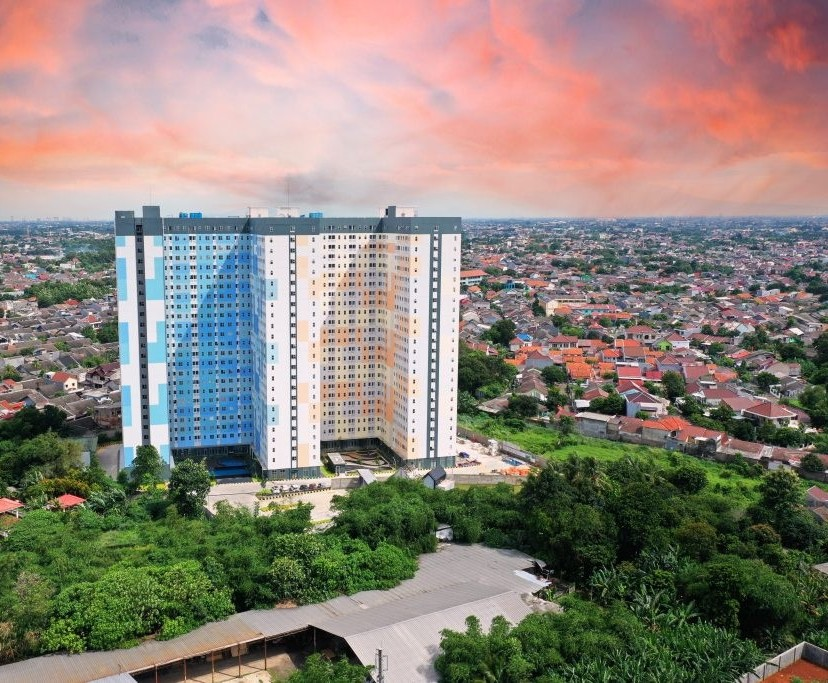
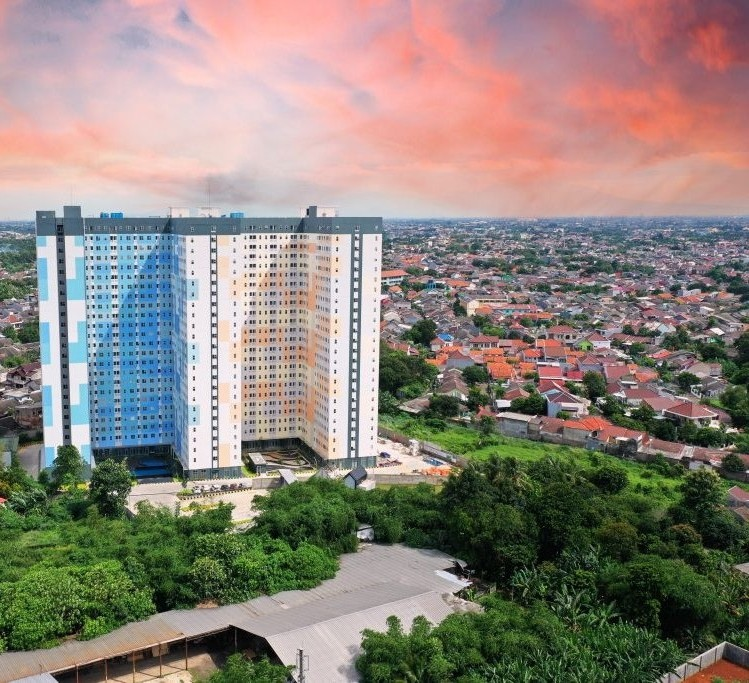
perbaiki ui dikit

diff --git a/resources/views/auth/login.blade.php b/resources/views/auth/login.blade.php
@@ -23,7 +23,7 @@
 <body
     class="min-h-screen
     bg-cover bg-center bg-no-repeat
-    flex items-center justify-center lg:justify-end
+    flex items-center justify-center
     relative overflow-hidden"
     style="background-image: url('{{ asset('images/gedung.jpg') }}');">
 
@@ -46,19 +46,39 @@
 
         <div
             class="flex flex-col justify-end
+            h-full
             p-14 text-white">
 
-            {{-- SMALL BADGE --}}
-            <div
-                class="mt-8 inline-flex items-center
-                gap-2 text-sm text-white/80">
+            <div>
 
+                {{-- TITLE --}}
+                <h1
+                    class="text-5xl font-black
+                    tracking-tight leading-tight">
+
+                    Urban Town
+                    <br>
+                    Serpong
+
+                </h1>
+
+                {{-- LINE --}}
                 <div
-                    class="w-2 h-2 rounded-full
-                    bg-emerald-400 animate-pulse">
+                    class="w-24 h-1 rounded-full
+                    bg-blue-400 mt-6">
                 </div>
 
-                Urbantown Complaint Management System
+                {{-- ADDRESS --}}
+                <p
+                    class="mt-6 text-base
+                    text-white/75 leading-relaxed
+                    max-w-md">
+
+                    Jl. Raya Bukit Sarua, Ciputat, 
+                    Tangerang Selatan,
+                    Banten 15414
+
+                </p>
 
             </div>
 
@@ -71,7 +91,7 @@
         x-data="{ showPassword: false }"
         class="relative z-20
         w-full max-w-md
-        mr-0 lg:mr-32
+        lg:ml-[40%]
         mx-4
         bg-white/85 backdrop-blur-xl
         rounded-3xl shadow-2xl

diff --git a/resources/views/penghuni/riwayatKeluhan.blade.php b/resources/views/penghuni/riwayatKeluhan.blade.php
@@ -190,7 +190,51 @@
 
                 <!-- PDF -->
                 <template x-if="previewFile.match(/\.pdf$/i)">
-                    <iframe :src="previewFile" class="w-full h-[70vh]"></iframe>
+
+                    <div
+                        class="flex items-center justify-between
+                        bg-gray-50 border border-gray-200
+                        rounded-xl px-4 py-4">
+
+                        <div class="flex items-center gap-3">
+
+                            <div
+                                class="w-12 h-12 rounded-lg
+                                bg-red-100 text-red-600
+                                flex items-center justify-center">
+
+                                📄
+
+                            </div>
+
+                            <div>
+
+                                <p class="font-medium text-gray-800">
+                                    File PDF
+                                </p>
+
+                                <p
+                                    class="text-sm text-gray-500"
+                                    x-text="previewFile.split('/').pop()">
+                                </p>
+
+                            </div>
+
+                        </div>
+
+                        <a
+                            :href="previewFile"
+                            target="_blank"
+                            class="px-4 py-2
+                            bg-blue-600 text-white
+                            rounded-lg hover:bg-blue-700">
+
+                            Buka PDF
+
+                        </a>
+
+                    </div>
+
                 </template>
 
                 <!-- FILE LAIN -->

diff --git a/resources/views/departemen/workOrder/workOrderMasuk.blade.php b/resources/views/departemen/workOrder/workOrderMasuk.blade.php
@@ -82,7 +82,7 @@
     {{-- MODAL DETAIL WO --}}
     <div x-show="showModal" x-cloak
          class="fixed inset-0 bg-black/50 flex items-center justify-center z-50 p-4">
-        <div @click.outside="showModal = false"
+        <div @click.outside="if(!openPreview) showModal = false"
              class="bg-white w-full sm:max-w-md md:max-w-2xl rounded-lg shadow-lg max-h-[90vh] flex flex-col">
 
             {{-- Header --}}
@@ -295,15 +295,26 @@
             </div>
 
         </div>
+    </div>
 
-            <!-- ================= MODAL PREVIEW FILE ================= -->
-        <div x-show="openPreview" x-cloak
-            class="fixed inset-0 bg-black/70 flex items-center justify-center z-50">
+    <!-- ================= MODAL PREVIEW FILE ================= -->
+    <div
+        x-show="openPreview"
+        x-cloak
+        @click.self="openPreview = false"
+        class="fixed inset-0 bg-black/70
+        flex items-center justify-center
+        z-[9999]">
+            <div
+             @click.stop
+             class="bg-white rounded-lg p-4 max-w-4xl w-full relative">
 
-            <div class="bg-white rounded-lg p-4 max-w-4xl w-full relative">
-
-                <button @click="openPreview=false"
-                    class="absolute top-2 right-2 text-xl">✕</button>
+            <button
+                @click.stop="openPreview = false"
+                type="button"
+                class="absolute top-2 right-2 text-xl">
+                ✕
+            </button>
 
                 <div class="mt-6">
 
@@ -373,7 +384,6 @@
                 </div>
             </div>
         </div>
-    </div>
 
 <script>
 function workOrderApp(){

diff --git a/resources/views/departemen/workOrder/detailWorkOrder.blade.php b/resources/views/departemen/workOrder/detailWorkOrder.blade.php
@@ -34,7 +34,7 @@
     </template>
 
     {{-- ================= INFO UTAMA WO ================= --}}
-    <div class="grid grid-cols-2 gap-4 text-sm bg-white p-6 rounded-xl shadow">
+    <div class="grid grid-cols-2 md:grid-cols-3 gap-4 text-sm bg-white p-6 rounded-xl shadow">
         <p><b>Departemen</b><br><span x-text="wo.departemen?.nama_departemen"></span></p>
         <p><b>TR Penanggung Jawab</b><br><span x-text="wo.tr"></span></p>
         <p><b>Tanggal WO</b><br><span x-text="wo.tanggal"></span></p>
@@ -44,6 +44,10 @@
                 x-text="formatStatus(wo.status)">
             </span>
         </p>
+    <p>
+        <b>No. Tiket Keluhan</b><br>
+        <span x-text="wo.nomor_tiket_keluhan"></span>
+    </p>
     </div>
 
     {{-- ================= PENGAJUAN PENGHUNI ================= --}}

diff --git a/app/Http/Controllers/tempCodeRunnerFile.php b/app/Http/Controllers/tempCodeRunnerFile.php
@@ -1,0 +1,26 @@
+<?php
+public function ambilWO($id)
+    {
+        $user = auth()->user();
+
+        $wo = WorkOrder::findOrFail($id);
+
+        $wo->update([
+            'penanggung_jawab_id' => $user->karyawan->id,
+            'status' => 'open',
+            'taken_at' => now()
+        ]);
+
+        RiwayatPenangananWorkOrder::create([
+            'work_order_id' => $wo->id,
+            'judul' => 'Work Order Diambil Alih',
+            'deskripsi' =>'Work Order telah diambil dan mulai diproses oleh departemen',
+            'status' => 'open',
+            'waktu' => now(),
+            'lampiran' => []
+        ]);
+
+        return response()->json([
+            'message' => 'WO berhasil diambil'
+        ]);
+    }

diff --git a/database/migrations/2026_03_24_165140_create_unit_table.php b/database/migrations/2026_03_24_165140_create_unit_table.php
@@ -11,7 +11,7 @@ return new class extends Migration
         Schema::create('units', function (Blueprint $table) {
             $table->id();
             $table->string('nomor_unit', 10)->unique();
-            $table->string('gedung', 50);
+            $table->string('gedung', 10);
             $table->string('lantai');
             $table->string('nomor_kamar');
             $table->enum('status', ['Aktif', 'Nonaktif'])->default('Aktif');

diff --git a/database/migrations/2026_03_24_165141_create_penghuni_table.php b/database/migrations/2026_03_24_165141_create_penghuni_table.php
@@ -11,7 +11,7 @@ return new class extends Migration
         Schema::create('penghunis', function (Blueprint $table) {
             $table->id();
             $table->string('nik', 16);
-            $table->string('nama', 50);
+            $table->string('nama', 100);
             $table->string('email', 100);
             $table->string('no_telepon', 15);
             $table->enum('jenis_kelamin', ['Laki-laki', 'Perempuan']);

diff --git a/resources/views/admin/dashboard.blade.php b/resources/views/admin/dashboard.blade.php
@@ -40,7 +40,7 @@
 
         {{-- TOTAL UNIT --}}
         <a href="/IndexUnits?status=Aktif" class="block bg-white p-6 rounded-lg border shadow-sm hover:shadow-md transition">
-            <p class="text-sm text-gray-500">Total Unit</p>
+            <p class="text-sm text-gray-500">Total Unit Aktif</p>
             <p class="text-3xl font-bold text-blue-600 mt-2">
                 {{ $stats['unit'] }}
             </p>

diff --git a/app/Http/Controllers/WorkOrderController.php b/app/Http/Controllers/WorkOrderController.php
@@ -367,7 +367,9 @@ class WorkOrderController extends Controller
 
             'lokasi' =>
                 $wo->lokasi,
-
+            
+            'nomor_tiket_keluhan' =>
+                 $wo->keluhan->nomor_tiket ?? '-',
             // ================= PENGAJUAN =================
 
             'judul_keluhan' =>

diff --git a/database/migrations/2026_03_24_165139_create_departemen_table.php b/database/migrations/2026_03_24_165139_create_departemen_table.php
@@ -10,7 +10,7 @@ return new class extends Migration
     {
         Schema::create('departemens', function (Blueprint $table) {
             $table->id();
-            $table->string('nama_departemen');
+            $table->string('nama_departemen',20);
             $table->timestamps();
         });
     }

diff --git a/resources/views/tenantrelation/keluhan/keluhanMasuk.blade.php b/resources/views/tenantrelation/keluhan/keluhanMasuk.blade.php
@@ -444,6 +444,7 @@
                     </div>
 
                 </template>
+                
                 {{-- FILE LAIN --}}
                 <template x-if="!isImage(previewUrl) && !isPdf(previewUrl)">
                     <a :href="previewUrl" target="_blank"
